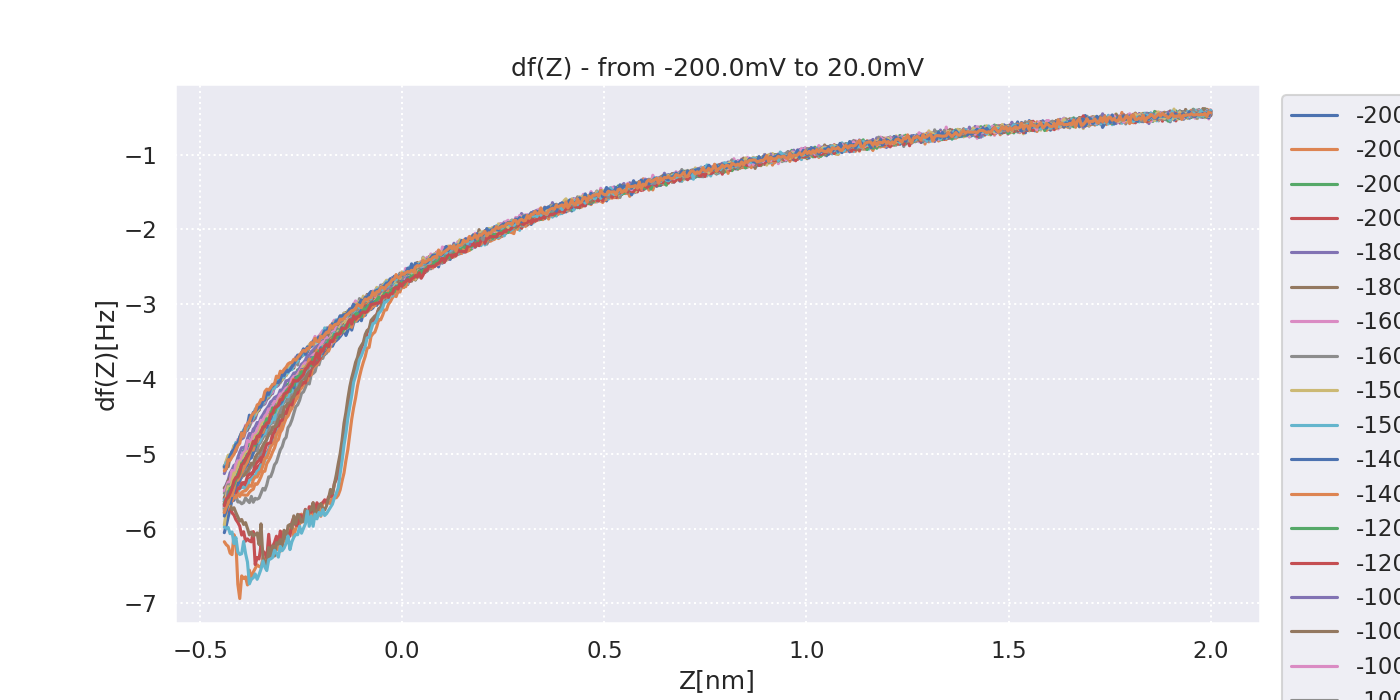
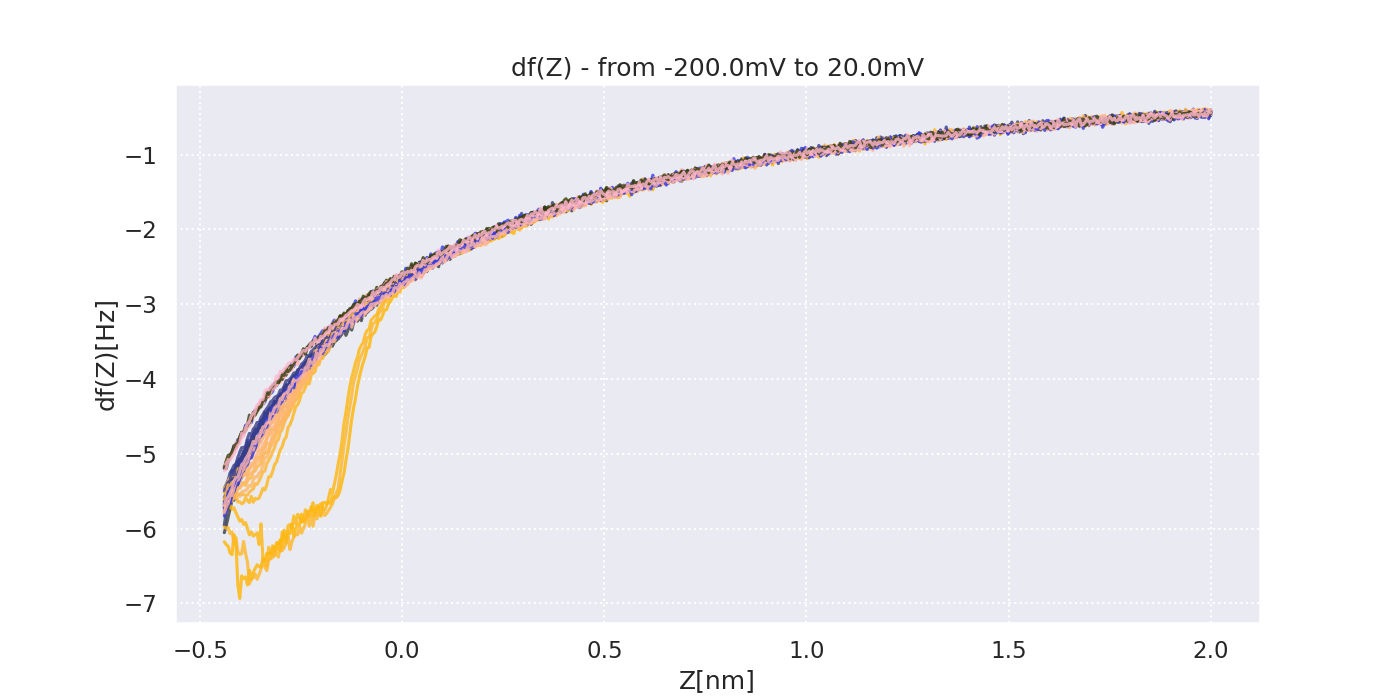
sync

diff --git a/plot_severalcurves_same_plot.py b/plot_severalcurves_same_plot.py
@@ -4,13 +4,18 @@ import matplotlib.pyplot as plt
 import access2thematrix
 import seaborn as sns
 from spmUtils import *
+from matplotlib import cm
 import csv
 sns.set()  # Setting seaborn as default style even if use only matplotlib
 sns.set(style="ticks", context="talk")
 sns.set_style("darkgrid", {"grid.color": "1", "grid.linestyle": ":"})
 
-folder_path = "/media/captainbroccoli/DATA/2022-07-17/"
-prefix = "20220717-163110_Cu(111)--AFM_NonContact_QPlus_AtomManipulation_AuxChannels--"
+#folder_path = "/media/captainbroccoli/DATA/2022-07-17/"
+folder_path = "/media/captainbroccoli/DATA/2022-08-07/"
+
+#prefix = "20220717-163110_Cu(111)--AFM_NonContact_QPlus_AtomManipulation_AuxChannels--"
+prefix = "20220807-174532_Cu(111)--AFM_NonContact_QPlus_AtomManipulation_AuxChannels--"
+
 sufix = ".Df(Z)_mtrx"
 csv_list = load_spec_list_from_cvs()
 csv_list_temp = []
@@ -25,6 +30,9 @@ palette = sns.color_palette(['blue'], len(np.unique(np.asarray(sorted_list))))
 
 figure, axis = plt.subplots(1,1,figsize=(14, 7), sharex=True)
 
+#color_trace = 3554368 # black/grey to blue
+#color_retrace = 16758272 # orange to pink
+
 
 for idx,item in enumerate(sorted_list):
 
@@ -38,10 +46,18 @@ for idx,item in enumerate(sorted_list):
     x_retrace = curve_retrace.X
     y_retrace = curve_retrace.Y
 
+    #color_trace_int = hex(color_trace)[2:]
+    #color_retrace_int = hex(color_retrace)[2:]
 
-    sns.lineplot(ax=axis, x=x_trace*10**9, y=y_trace,label=f"{item[1]}")
-    sns.lineplot(ax=axis, x=x_retrace*10**9, y=y_retrace,label=f"{item[1]}")
 
+    #sns.lineplot(ax=axis, x=x_trace*10**9, y=y_trace,color=f"#{color_trace_int}",alpha=1)
+    #sns.lineplot(ax=axis, x=x_retrace*10**9, y=y_retrace,color=f"#{color_retrace_int}",alpha=1)
+
+    sns.lineplot(ax=axis, x=x_trace * 10 ** 9, y=y_trace, color="green", alpha=1)
+    sns.lineplot(ax=axis, x=x_retrace * 10 ** 9, y=y_retrace, color=f"yellow", alpha=1)
+
+    #color_trace = color_trace + 12
+    #color_retrace = color_retrace +12
 
     #sns.lineplot(ax=axis, x=x_trace*10**9, y=y_trace)
     #sns.lineplot(ax=axis, x=x_retrace*10**9, y=y_retrace)
@@ -55,7 +71,7 @@ unit_y = "[Hz]"
 axis.set_title(f"{title}")
 axis.set_xlabel(f"{name_x}{unit_x}")
 axis.set_ylabel(f"{name_y}{unit_y}")
-axis.legend(bbox_to_anchor = (1.01, 1), loc = 'upper left')
+#axis.legend(bbox_to_anchor = (1.01, 1), loc = 'upper left')
 
 pwd = os.getcwd()
 

diff --git a/plot_single_curve.py b/plot_single_curve.py
@@ -4,17 +4,69 @@ import matplotlib.pyplot as plt
 import access2thematrix
 import seaborn as sns
 from spmUtils import *
+from scipy.signal import savgol_filter
+
 import csv
 sns.set()  # Setting seaborn as default style even if use only matplotlib
 sns.set(style="ticks", context="talk")
 sns.set_style("darkgrid", {"grid.color": "1", "grid.linestyle": ":"})
 
-# Loading the data from the csv file and then it is calculating the force for each spectra.
-folder_path = "/media/captainbroccoli/DATA/2022-07-17/"
-prefix = "20220717-163110_Cu(111)--AFM_NonContact_QPlus_AtomManipulation_AuxChannels--"
-sufix = ".Df(V)_mtrx"
-file_number="4_1"
-path = f"{folder_path}{prefix}{file_number}{sufix}"
-curve_list=[]
 
-curve_trace, curve_retrace = import_spectra(path)
+folder_path = "/media/captainbroccoli/DATA/2022-07-29/"
+prefix = "20220729-095353_Cu(111)--AFM_NonContact_QPlus_AtomManipulation_AuxChannels--"
+type = "Aux2(V)"
+sufix = "_mtrx"
+file_number=["9_1"]
+
+x = np.zeros(512)
+y = np.zeros(512)
+for number in file_number:
+
+    path = f"{folder_path}{prefix}{number}.{type}{sufix}"
+
+    mtrx_data = access2thematrix.MtrxData()
+    data_file = f'{path}'
+    traces, message = mtrx_data.open(data_file)
+    curve_trace, message = mtrx_data.select_curve(traces[0])
+    x = Spec_curve(curve_trace).X
+    y = y + Spec_curve(curve_trace).Y
+
+y = y/4
+
+
+filter_order = 3
+filter_window = 5
+#y = savgol_filter(y, filter_window, filter_order)
+
+figure, axis = plt.subplots(1,1,figsize=(14, 7), sharex=True)
+sns.lineplot(ax=axis, x=x, y=y, color="#3386FF", alpha=1)
+
+if type == "Aux2(V)":
+    title = f"dI/dV"
+    name_x = "V"
+    name_y = "dI/dV"
+    unit_x = "[V]"
+    unit_y = "[1/Ohm]"
+
+elif type =="Df(V)":
+    title = f"Df(V)"
+    name_x = "Bias"
+    name_y = "Df(V)"
+    unit_x = "[V]"
+    unit_y = "[Hz]"
+
+axis.set_title(f"{title}")
+axis.set_xlabel(f"{name_x}{unit_x}")
+axis.set_ylabel(f"{name_y}{unit_y}")
+#axis.legend(bbox_to_anchor = (1.01, 1), loc = 'upper left')
+
+pwd = os.getcwd()
+name= f"{type}_{file_number}"
+dir = "curves"
+if os. path.isdir(f"{pwd}/{dir}") == False:
+    os.mkdir(f"{pwd}/{dir}")
+else:
+    pass
+plt.savefig(fname=f"{pwd}/{dir}/{name}",formatstr='.eps',facecolor='auto', edgecolor='auto')
+
+print("I owe you nothing")
